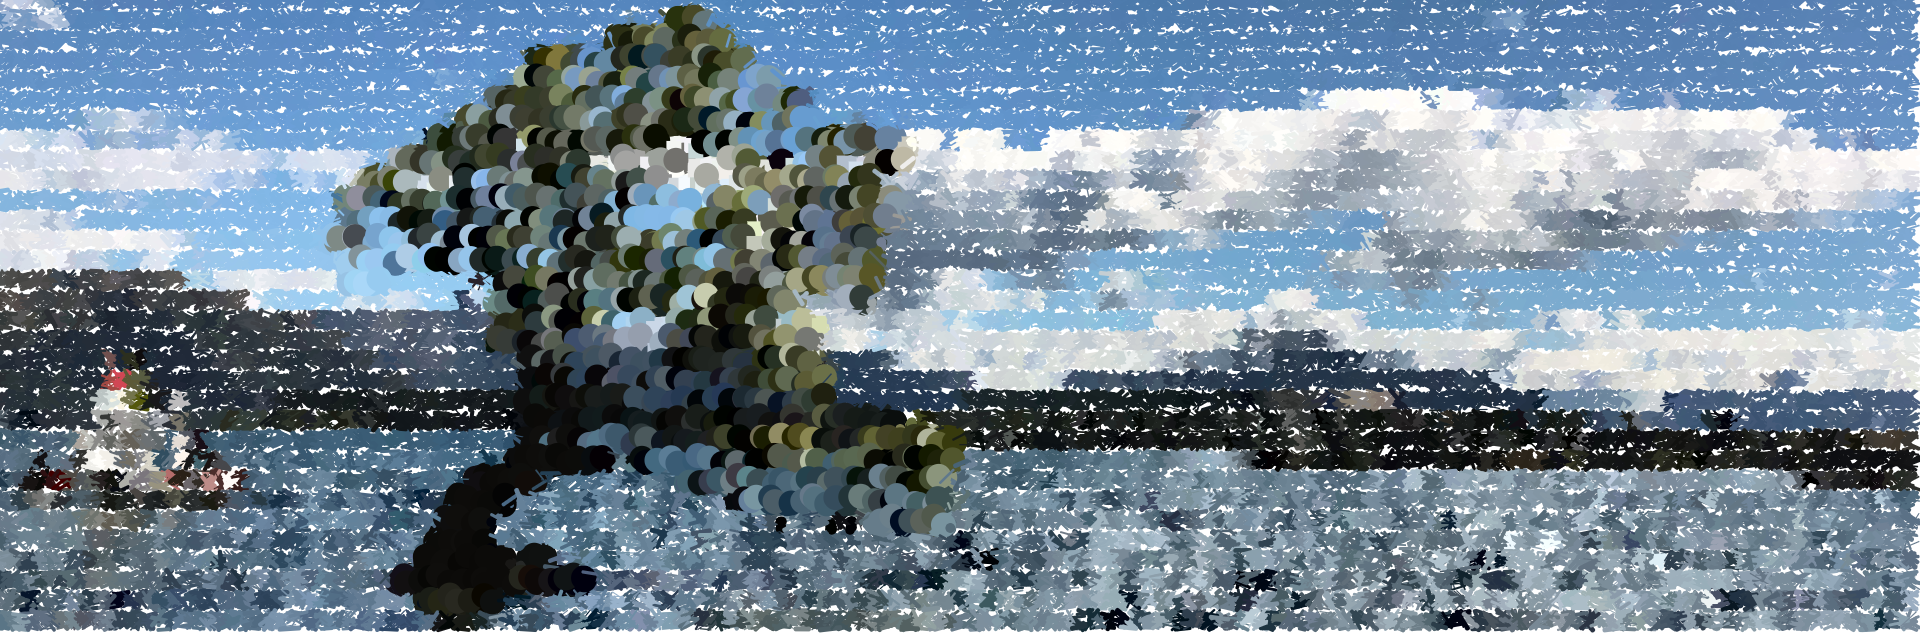
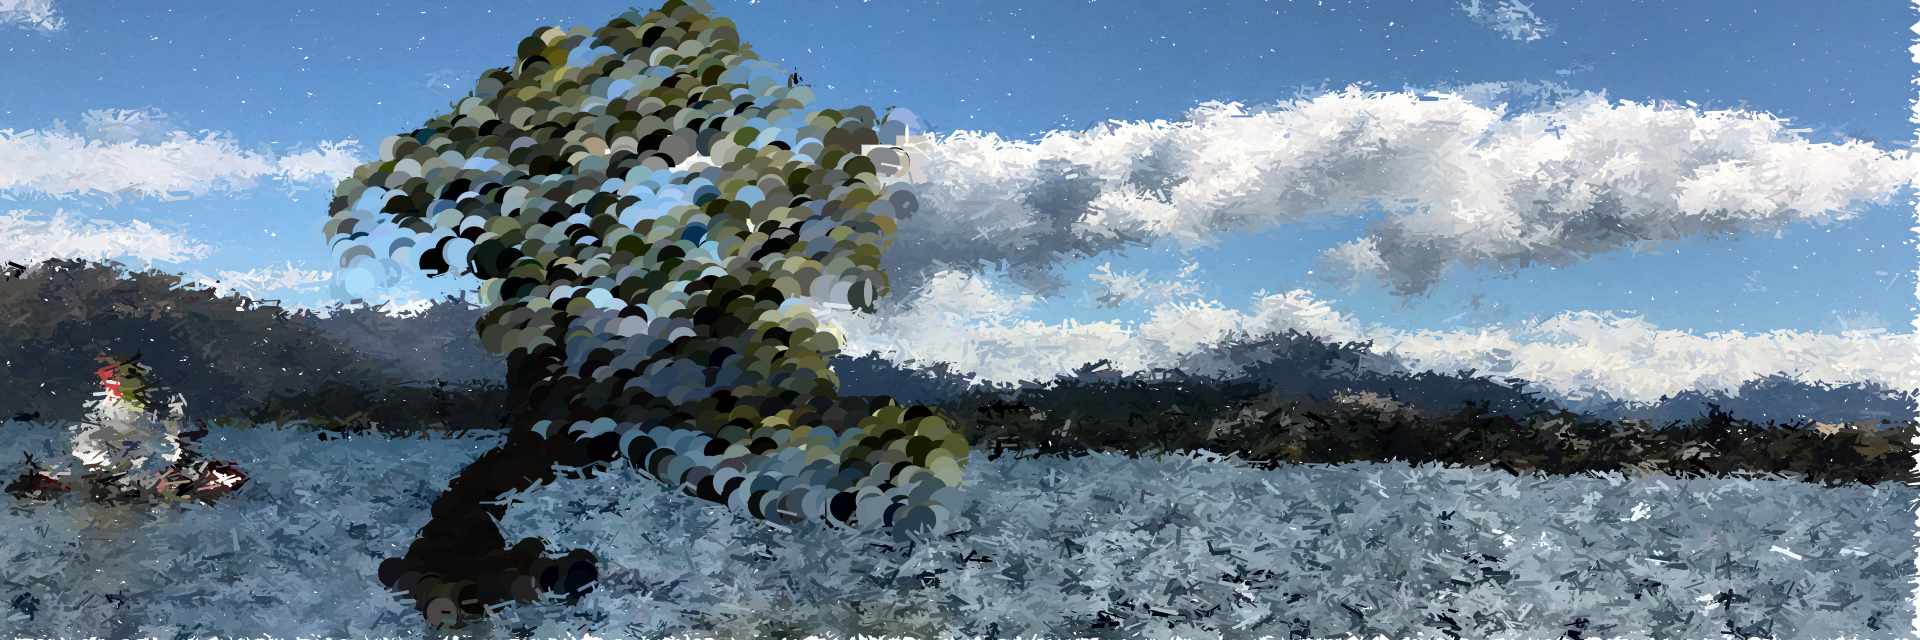
Change

diff --git a/sketch.js b/sketch.js
@@ -3,9 +3,9 @@ let maskImg=null;
 let renderCounter=0;
 
 // change these three lines as appropiate
-let sourceFile = "input_1.jpg";
-let maskFile   = "mask_1.png";
-let outputFile = "output_1.png";
+let sourceFile = "input_3.jpg";
+let maskFile   = "mask_3.png";
+let outputFile = "output_3.png";
 
 
 function preload() {
@@ -26,8 +26,8 @@ function setup() {
 }
 
 function draw () {
-  for (let y = 0; y < 900; y+=20) {
-    for (let x = 0; x < 1920; x+=10) {
+  for (let y = 0; y < 1000; y+=10) {
+    for (let x = 0; x < 1920; x+=20) {
       let pix = sourceImg.get(x, y);
       let mask = maskImg.get(x, y);
       fill(pix);
@@ -36,22 +36,22 @@ function draw () {
         noStroke();
         //draws the whiter pixels as rects
         if (pix[0] > 175 && pix[1] > 175 && pix[2] > 175) {
-          rect(x+random(-5,5), y+random(-5,5), 15, 15);
+          rect(x+random(-6,5), y+random(-6,5), 30, 30);
         }
         //and the darker pixels as ellipses
         else {
-        ellipse(x+random(-5,5), y+random(-5,5), 25, 25);
+        ellipse(x+random(-10,5), y+random(-10,5), 30, 30);
         }
       }
       else if(mask[0] > 120) {  //mask is dark grey
         noStroke();
-        ellipse(x+random(0,2), y+random(10,1), random(10,10), random(10,10));
+        ellipse(x+random(-10,2), y+random(-10,1), random(-10,10), random(-30,30));
 
       }
       else {
         stroke(pix);
         strokeWeight(random(1,5));
-        line(x - random(0, 10), y + random(-10,10), x + random(0, 10), y + random (-10,10));
+        line(x - random(0, 20), y + random(-10,10), x + random(-10, 10), y + random (-10,10));
       }
     }
   }

diff --git a/README.md b/README.md
@@ -1,2 +1,1 @@
 ## Creative Coding 2: Custom Pixel
-So I have change the first one image.And I got a new idea to make pixel image, I find one my self photo and cut the shape put in the mask_1.png, so the image 1 is come out.
